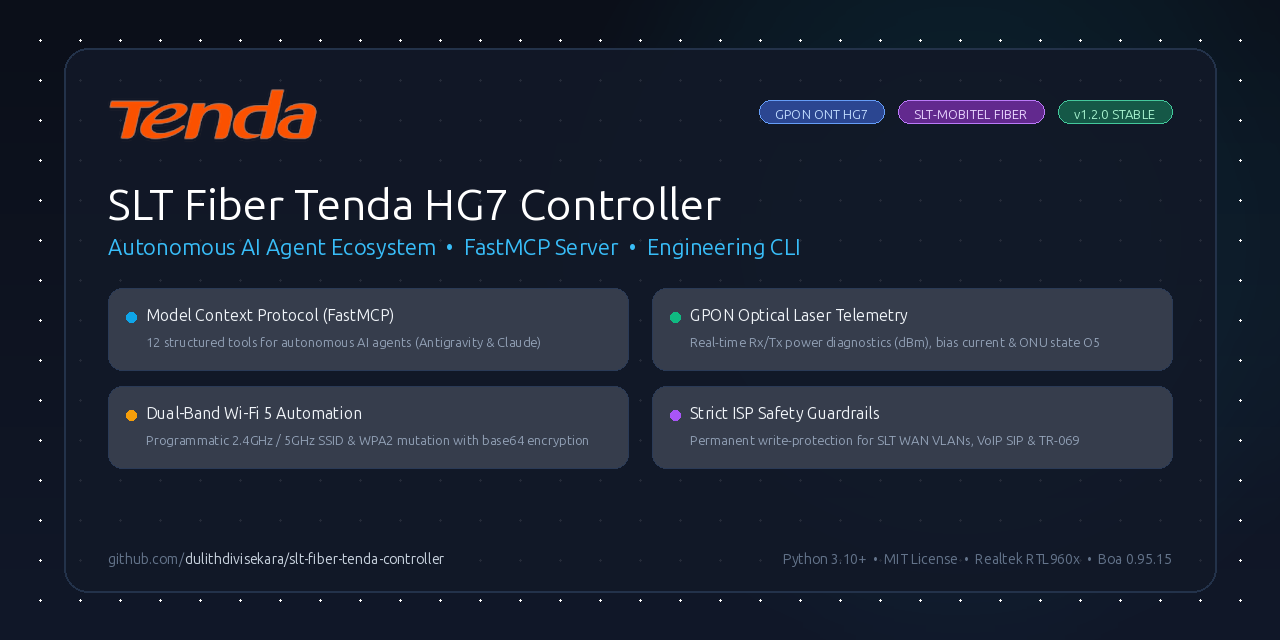
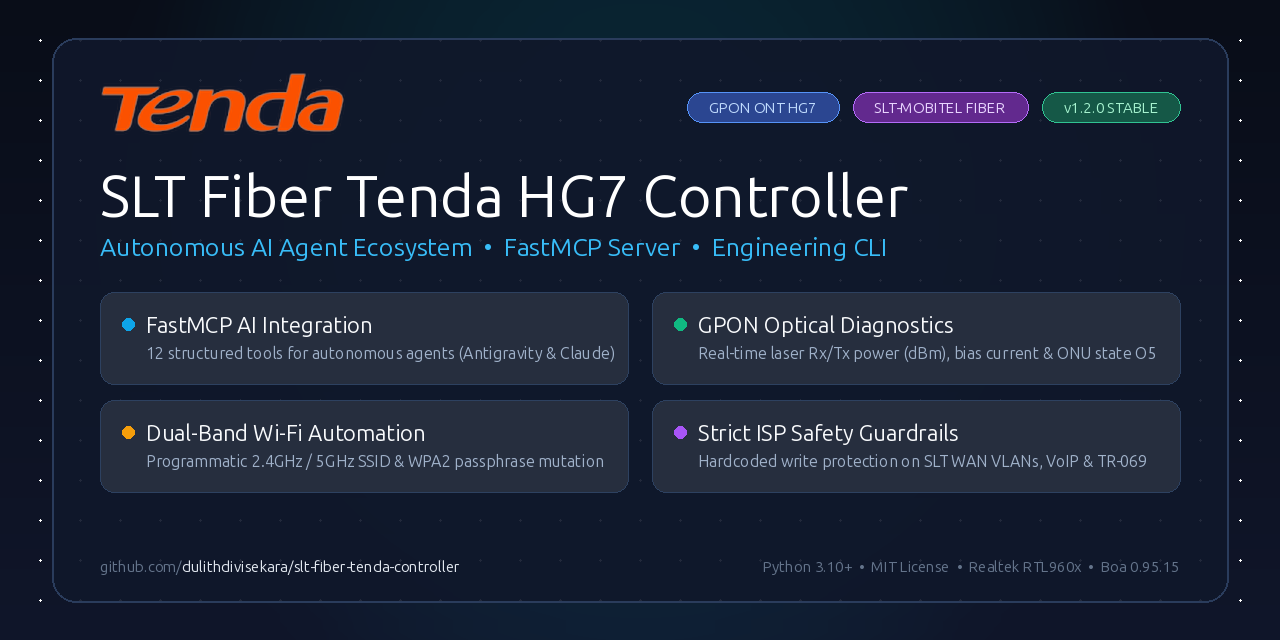
fix(assets): enhance social preview card typography, contrast, and alignment

diff --git a/scripts/generate_social_preview.py b/scripts/generate_social_preview.py
@@ -1,0 +1,195 @@
+#!/usr/bin/env python3
+"""
+Generates an engineering-grade GitHub Social Preview (1280x640) for slt-fiber-tenda-controller.
+
+Author: Dulith Divisekara
+"""
+
+from pathlib import Path
+from PIL import Image, ImageDraw, ImageFont, ImageFilter
+
+WIDTH = 1280
+HEIGHT = 640
+
+REPO_ROOT = Path(__file__).resolve().parent.parent
+
+# Typography
+FONT_BOLD = "/usr/share/fonts/truetype/ubuntu/Ubuntu-B.ttf"
+FONT_MED = "/usr/share/fonts/truetype/ubuntu/Ubuntu-M.ttf"
+FONT_REG = "/usr/share/fonts/truetype/ubuntu/Ubuntu-R.ttf"
+
+title_font = ImageFont.truetype(FONT_BOLD, 58)
+subtitle_font = ImageFont.truetype(FONT_MED, 25)
+card_title_font = ImageFont.truetype(FONT_BOLD, 22)
+card_desc_font = ImageFont.truetype(FONT_REG, 16)
+badge_font = ImageFont.truetype(FONT_BOLD, 15)
+footer_font = ImageFont.truetype(FONT_REG, 15)
+footer_bold_font = ImageFont.truetype(FONT_BOLD, 15)
+
+
+def generate_social_preview(output_path: Path) -> None:
+    # 1. Base Canvas with Deep Gradient
+    img = Image.new("RGBA", (WIDTH, HEIGHT), (10, 14, 26, 255))
+    draw = ImageDraw.Draw(img)
+
+    for y in range(HEIGHT):
+        factor = y / HEIGHT
+        r = int(9 + 7 * factor)
+        g = int(13 + 9 * factor)
+        b = int(24 + 18 * factor)
+        draw.line([(0, y), (WIDTH, y)], fill=(r, g, b, 255))
+
+    # Subtle radial optical glow centered behind title area
+    glow_center_x, glow_center_y = 640, 210
+    glow_radius = 540
+    glow = Image.new("RGBA", (WIDTH, HEIGHT), (0, 0, 0, 0))
+    glow_draw = ImageDraw.Draw(glow)
+    for r in range(glow_radius, 0, -5):
+        alpha = int(38 * (1.0 - (r / glow_radius) ** 2))
+        glow_draw.ellipse(
+            [glow_center_x - r, glow_center_y - r, glow_center_x + r, glow_center_y + r],
+            fill=(6, 182, 212, alpha),
+        )
+    glow = glow.filter(ImageFilter.GaussianBlur(radius=40))
+    img = Image.alpha_composite(img, glow)
+    draw = ImageDraw.Draw(img)
+
+    # Subtle grid pattern (dots)
+    dot_color = (255, 255, 255, 14)
+    for gx in range(40, WIDTH, 40):
+        for gy in range(40, HEIGHT, 40):
+            draw.ellipse([gx - 1, gy - 1, gx + 1, gy + 1], fill=dot_color)
+
+    # Outer framing container
+    frame_x0 = 52
+    frame_y0 = 38
+    frame_x1 = WIDTH - 52
+    frame_y1 = HEIGHT - 38
+
+    frame = Image.new("RGBA", (WIDTH, HEIGHT), (0, 0, 0, 0))
+    frame_draw = ImageDraw.Draw(frame)
+    frame_draw.rounded_rectangle(
+        [frame_x0, frame_y0, frame_x1, frame_y1],
+        radius=24,
+        fill=(15, 23, 42, 235),
+        outline=(42, 60, 92, 255),
+        width=2,
+    )
+    img = Image.alpha_composite(img, frame)
+    draw = ImageDraw.Draw(img)
+
+    # 2. Header: Logo on left, Badges on right
+    logo_path = REPO_ROOT / "assets" / "tenda-logo.png"
+    logo = Image.open(logo_path)
+    logo_w, logo_h = 245, 70
+    logo_scaled = logo.resize((logo_w, logo_h), Image.Resampling.LANCZOS)
+
+    header_y = frame_y0 + 34
+    img.paste(logo_scaled, (frame_x0 + 48, header_y), logo_scaled)
+
+    def draw_badge(draw_ctx, text, x_right, y_center, bg_color, border_color, text_color=(255, 255, 255)):
+        bbox = badge_font.getbbox(text)
+        tw = bbox[2] - bbox[0]
+        th = bbox[3] - bbox[1]
+        pad_h = 22
+        pad_v = 10
+        bw = tw + pad_h * 2
+        bh = th + pad_v * 2
+        bx0 = x_right - bw
+        by0 = y_center - bh // 2
+        draw_ctx.rounded_rectangle(
+            [bx0, by0, x_right, by0 + bh],
+            radius=bh // 2,
+            fill=bg_color,
+            outline=border_color,
+            width=1,
+        )
+        draw_ctx.text((bx0 + bw // 2, y_center), text, fill=text_color, font=badge_font, anchor="mm")
+        return bx0
+
+    badges_y_center = header_y + logo_h // 2
+    bx = frame_x1 - 48
+    bx = draw_badge(draw, "v1.2.0 STABLE", bx, badges_y_center, (6, 78, 59, 240), (16, 185, 129, 220), (167, 243, 208)) - 14
+    bx = draw_badge(draw, "SLT-MOBITEL FIBER", bx, badges_y_center, (88, 28, 135, 240), (168, 85, 247, 220), (233, 213, 255)) - 14
+    draw_badge(draw, "GPON ONT HG7", bx, badges_y_center, (30, 58, 138, 240), (59, 130, 246, 220), (191, 219, 254))
+
+    # 3. Hero Title & Subtitle
+    title_text = "SLT Fiber Tenda HG7 Controller"
+    title_y = header_y + logo_h + 20
+    draw.text((frame_x0 + 48, title_y), title_text, fill=(255, 255, 255), font=title_font)
+
+    subtitle_text = "Autonomous AI Agent Ecosystem  •  FastMCP Server  •  Engineering CLI"
+    subtitle_y = title_y + 70
+    draw.text((frame_x0 + 48, subtitle_y), subtitle_text, fill=(56, 189, 248), font=subtitle_font)
+
+    # 4. Feature Cards: 2x2 Grid with balanced spacing & punchy typography
+    gap_between_cols = 24
+    inner_width = (frame_x1 - 48) - (frame_x0 + 48)
+    pill_w = (inner_width - gap_between_cols) // 2
+    pill_h = 92
+    pill_y0 = subtitle_y + 60
+
+    features = [
+        (
+            "FastMCP AI Integration",
+            "12 structured tools for autonomous agents (Antigravity & Claude)",
+            (14, 165, 233),
+        ),
+        (
+            "GPON Optical Diagnostics",
+            "Real-time laser Rx/Tx power (dBm), bias current & ONU state O5",
+            (16, 185, 129),
+        ),
+        (
+            "Dual-Band Wi-Fi Automation",
+            "Programmatic 2.4GHz / 5GHz SSID & WPA2 passphrase mutation",
+            (245, 158, 11),
+        ),
+        (
+            "Strict ISP Safety Guardrails",
+            "Hardcoded write protection on SLT WAN VLANs, VoIP & TR-069",
+            (168, 85, 247),
+        ),
+    ]
+
+    for idx, (ft_title, ft_desc, dot_col) in enumerate(features):
+        col = idx % 2
+        row = idx // 2
+        px0 = frame_x0 + 48 + col * (pill_w + gap_between_cols)
+        py0 = pill_y0 + row * (pill_h + 16)
+        px1 = px0 + pill_w
+        py1 = py0 + pill_h
+
+        draw.rounded_rectangle(
+            [px0, py0, px1, py1],
+            radius=14,
+            fill=(20, 28, 46, 235),
+            outline=(45, 65, 96, 255),
+            width=1,
+        )
+
+        dot_cy = py0 + 32
+        draw.ellipse([px0 + 22, dot_cy - 6, px0 + 34, dot_cy + 6], fill=dot_col)
+
+        draw.text((px0 + 46, py0 + 20), ft_title, fill=(248, 250, 252), font=card_title_font)
+        draw.text((px0 + 46, py0 + 52), ft_desc, fill=(160, 178, 202), font=card_desc_font)
+
+    # 5. Footer (Aligned baselines via anchors)
+    footer_y = frame_y1 - 36
+
+    draw.text((frame_x0 + 48, footer_y), "github.com/", fill=(100, 116, 139), font=footer_font, anchor="lm")
+    pfx_bbox = footer_font.getbbox("github.com/")
+    pfx_w = pfx_bbox[2] - pfx_bbox[0]
+    draw.text((frame_x0 + 48 + pfx_w, footer_y), "dulithdivisekara/slt-fiber-tenda-controller", fill=(226, 232, 240), font=footer_bold_font, anchor="lm")
+
+    right_text = "Python 3.10+  •  MIT License  •  Realtek RTL960x  •  Boa 0.95.15"
+    draw.text((frame_x1 - 48, footer_y), right_text, fill=(100, 116, 139), font=footer_font, anchor="rm")
+
+    output_path.parent.mkdir(parents=True, exist_ok=True)
+    img.save(output_path, "PNG", optimize=True)
+    print(f"Generated {output_path} successfully ({WIDTH}x{HEIGHT})")
+
+
+if __name__ == "__main__":
+    out = REPO_ROOT / "assets" / "social-preview.png"
+    generate_social_preview(out)
